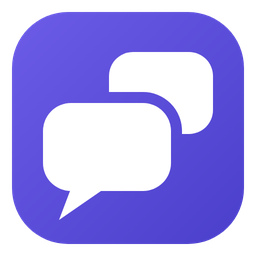
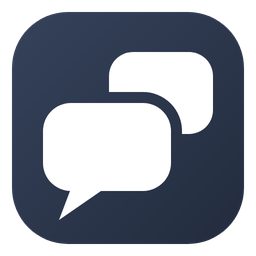
图标：配色改深钢蓝，重出 png 与 ico

diff --git a/assets/README.md b/assets/README.md
@@ -7,7 +7,7 @@
 - `app.ico` — Windows 多尺寸图标（16/24/32/48/64/128/256），供 exe 使用
 - `icon-*.png` — 各尺寸 PNG，供 Tauri 打包与网页引用
 
-配色：蓝紫 `#6C5CE7` / `#4A3FCB`，白色气泡。与前端 OKLCH 主色 `oklch(52% 0.19 262)` 协调。
+配色：深钢蓝 `#35425A` / `#232C3E`，白色气泡。不用 violet/蓝紫渐变，避免和一堆 AI 工具撞色；与前端 `--ink` 的冷调中性色衔接。
 
 导出方式：`icon.svg` 先渲成 512 透明 PNG，再按尺寸缩放；`app.ico` 由同一张母图一次写出多尺寸，避免逐尺寸手绘走形。
 
